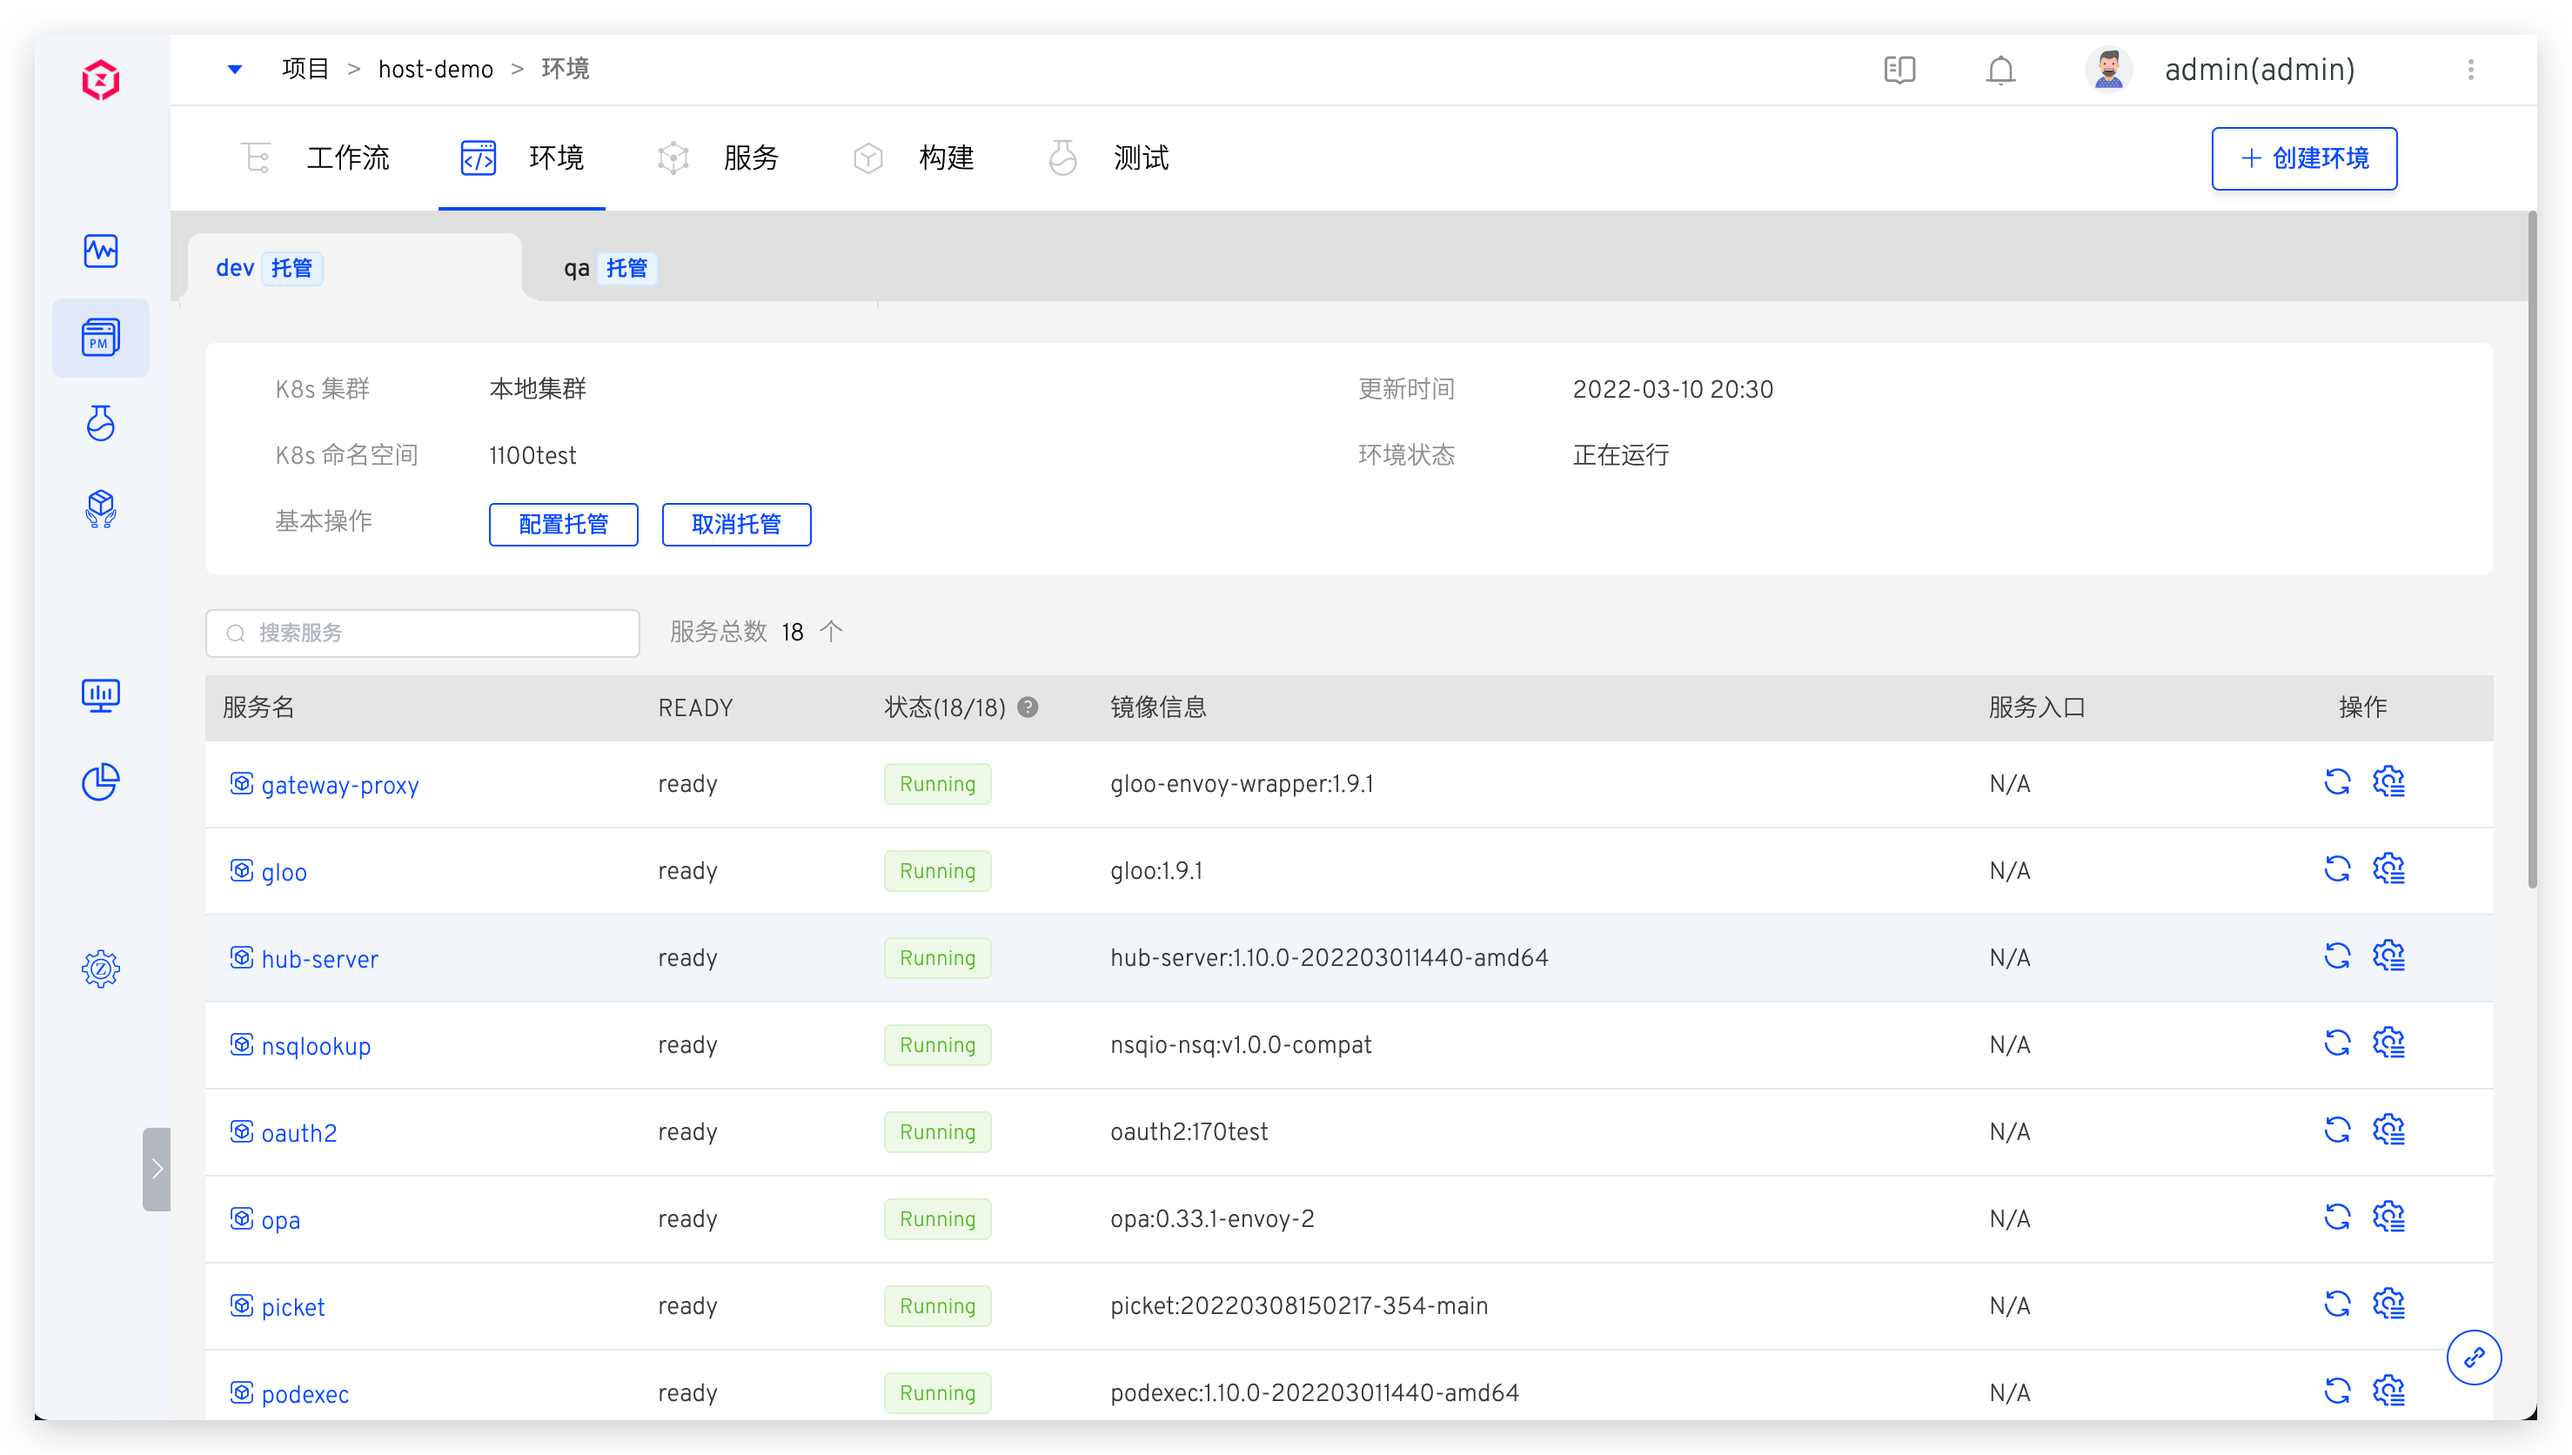
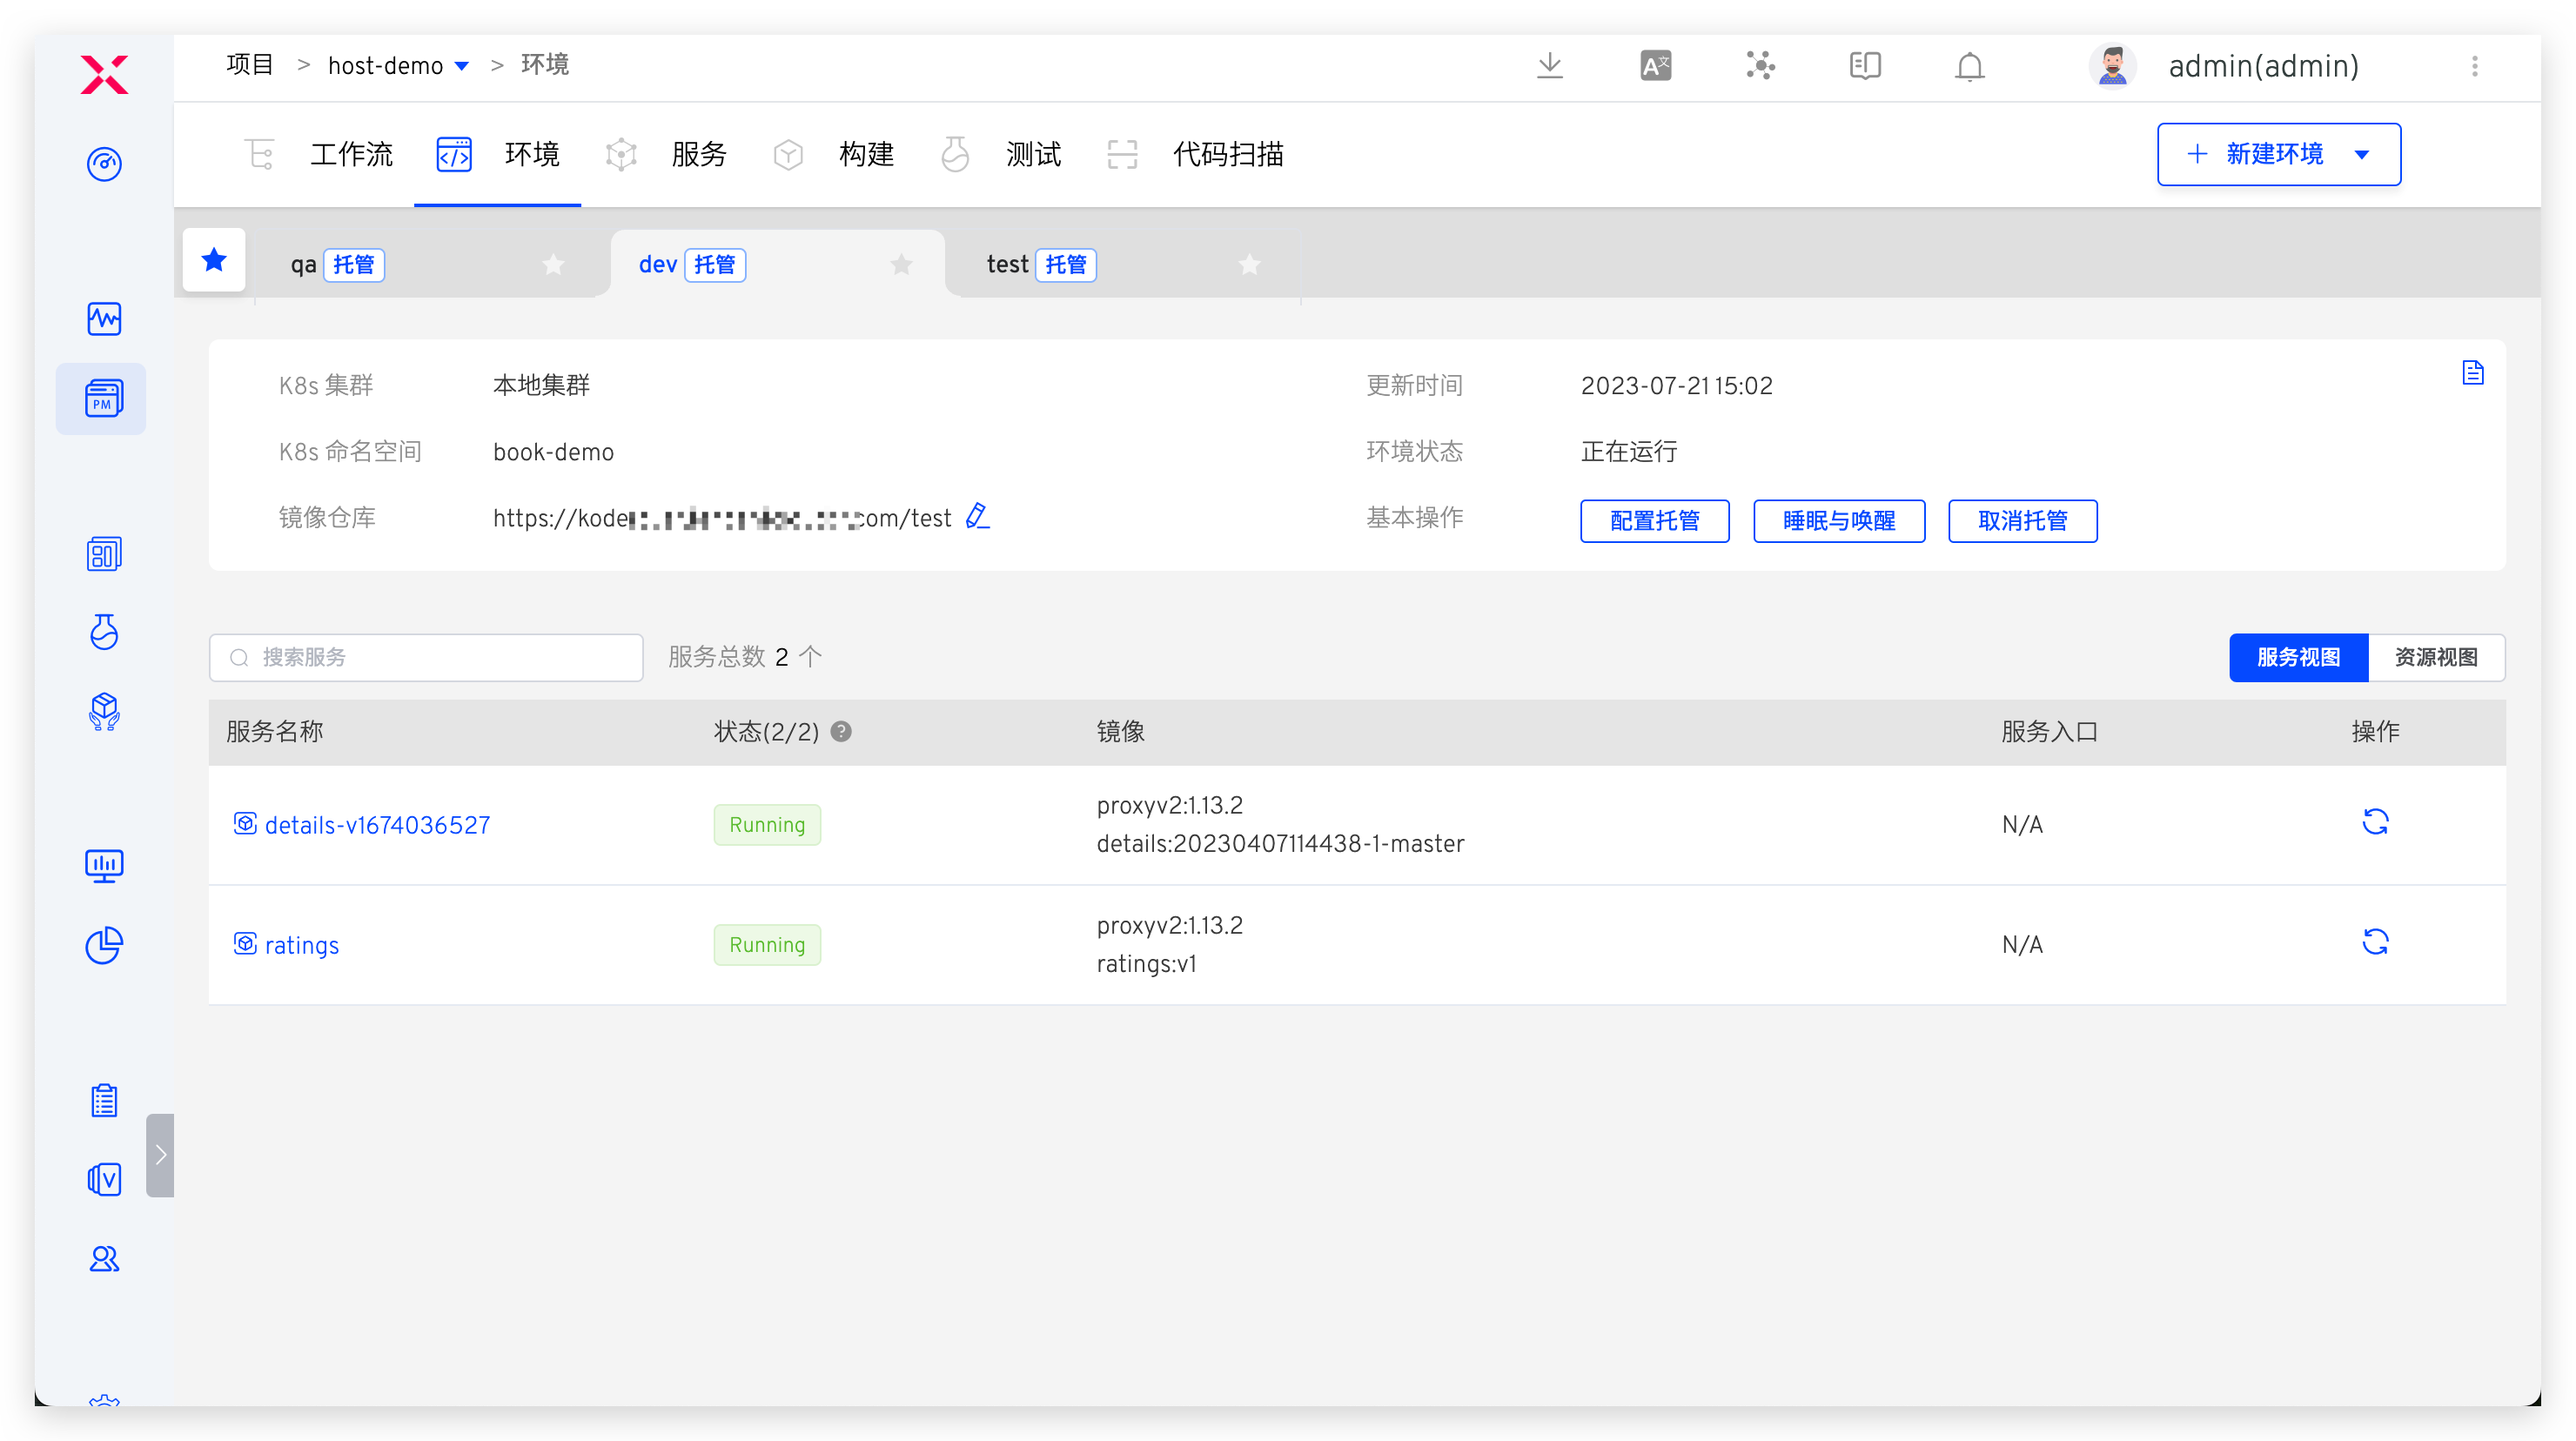
env sleep

diff --git a/ZadigX dev/05.功能介绍/03.环境/01.k8s_environment.md b/ZadigX dev/05.功能介绍/03.环境/01.k8s_environment.md
@@ -31,6 +31,7 @@ permalink: /ZadigX dev/project/env/k8s/
 - `管理服务`：包括[添加服务](#添加服务)、[更新服务](#更新服务)、[删除服务](#删除服务)
 - `环境配置`：为环境配置 Ingress、ConfigMap、Secret、PVC 资源，细节描述请阅读[环境配置管理](#环境配置管理)
 - `开启自测模式`：开启自测模式，创建子环境实现日常自测联调，细节描述请阅读[自测模式](#自测模式)
+- `睡眠与唤醒`：将环境睡眠/唤醒，调整服务实例副本数量，节省环境所使用的云资源成本，参考文档：[睡眠与唤醒](#睡眠与唤醒)
 - `删除环境`：删除当前环境，环境删除后不可恢复
 
 ### 变更记录
@@ -260,6 +261,13 @@ permalink: /ZadigX dev/project/env/k8s/
 - 关闭自测模式后，环境中的服务会重启，稍等片刻待服务重启完毕后，该环境即恢复正常可用
 
 ![关闭自测模式](../_images/disable_base_env.png)
+
+## 睡眠与唤醒
+
+支持一键将环境睡眠/唤醒来节省环境资源，环境睡眠后，服务实例副本数将会自动调整为 0，CronJob 会被挂起。也可以配置 Cron 表达式来实现定时睡眠/唤醒环境，Cron 表达式的形式为 `* * * * *`，下图示例中，每天 22:00 环境将会自动睡眠，每天 8:00 将会自动唤醒。
+
+<img src="../_images/env_sleep_config.png" width="400">
+<img src="../_images/env_sleep_config_1.png" width="400">
 
 ## 删除环境
 

diff --git a/ZadigX dev/05.功能介绍/03.环境/02.k8s_prod_environment.md b/ZadigX dev/05.功能介绍/03.环境/02.k8s_prod_environment.md
@@ -41,7 +41,6 @@ permalink: /ZadigX dev/project/prod/env/k8s/
 
 对环境中的服务进行管理，具体操作参考测试环境中的描述：[管理服务](/ZadigX%20dev/project/env/k8s/#管理服务)。
 
-
 ## 环境配置管理
 
 对环境中的 Ingress、ConfigMap、Secret、PVC 配置进行管理，具体操作参考测试环境中的描述：[环境配置管理](/ZadigX%20dev/project/env/k8s/#环境配置管理)。
@@ -51,6 +50,10 @@ permalink: /ZadigX dev/project/prod/env/k8s/
 点击`基本操作` -> `更多` -> `设置别名`按钮并输入新的名称后即可为环境设置别名并在 Tab 中展示。
 
 ![设置别名](../_images/prod_env_alias_demo.png)
+
+## 睡眠与唤醒
+
+参考文档：[睡眠与唤醒](/ZadigX%20dev/project/env/k8s/#睡眠与唤醒)。
 
 ## 删除环境
 

diff --git a/ZadigX dev/05.功能介绍/03.环境/04.produce_environment.md b/ZadigX dev/05.功能介绍/03.环境/04.produce_environment.md
@@ -81,6 +81,10 @@ permalink: /ZadigX dev/project/env/release/
 
 参考：[设置别名](/ZadigX%20dev/project/prod/env/k8s/#设置别名)。
 
+## 睡眠与唤醒
+
+参考文档：[睡眠与唤醒](/ZadigX%20dev/project/env/k8s/#睡眠与唤醒)。
+
 ## 删除环境
 
 点击`基本操作` -> `更多` -> `删除环境`按钮并输入环境名即可删除环境。

diff --git a/ZadigX dev/05.功能介绍/03.环境/03.k8s_helm_environment.md b/ZadigX dev/05.功能介绍/03.环境/03.k8s_helm_environment.md
@@ -120,6 +120,10 @@ permalink: /ZadigX dev/project/env/helm/chart/
 
 参考文档：[自测模式](/ZadigX%20dev/project/env/k8s/#自测模式)。
 
+## 睡眠与唤醒
+
+参考文档：[睡眠与唤醒](/ZadigX%20dev/project/env/k8s/#睡眠与唤醒)。
+
 ## 变更记录
 点击右上角的图标可查看该环境的操作日志。
 

diff --git a/ZadigX dev/05.功能介绍/03.环境/05.host_environment.md b/ZadigX dev/05.功能介绍/03.环境/05.host_environment.md
@@ -66,6 +66,10 @@ permalink: /ZadigX dev/project/env/k8s/host/
 
 点击基本操作中的`取消托管`，可取消对当前环境中服务的托管，取消后环境将被删除。
 
+## 睡眠与唤醒
+
+参考文档：[睡眠与唤醒](/ZadigX%20dev/project/env/k8s/#睡眠与唤醒)。
+
 ## 生产环境
 
 ### 新建生产环境
